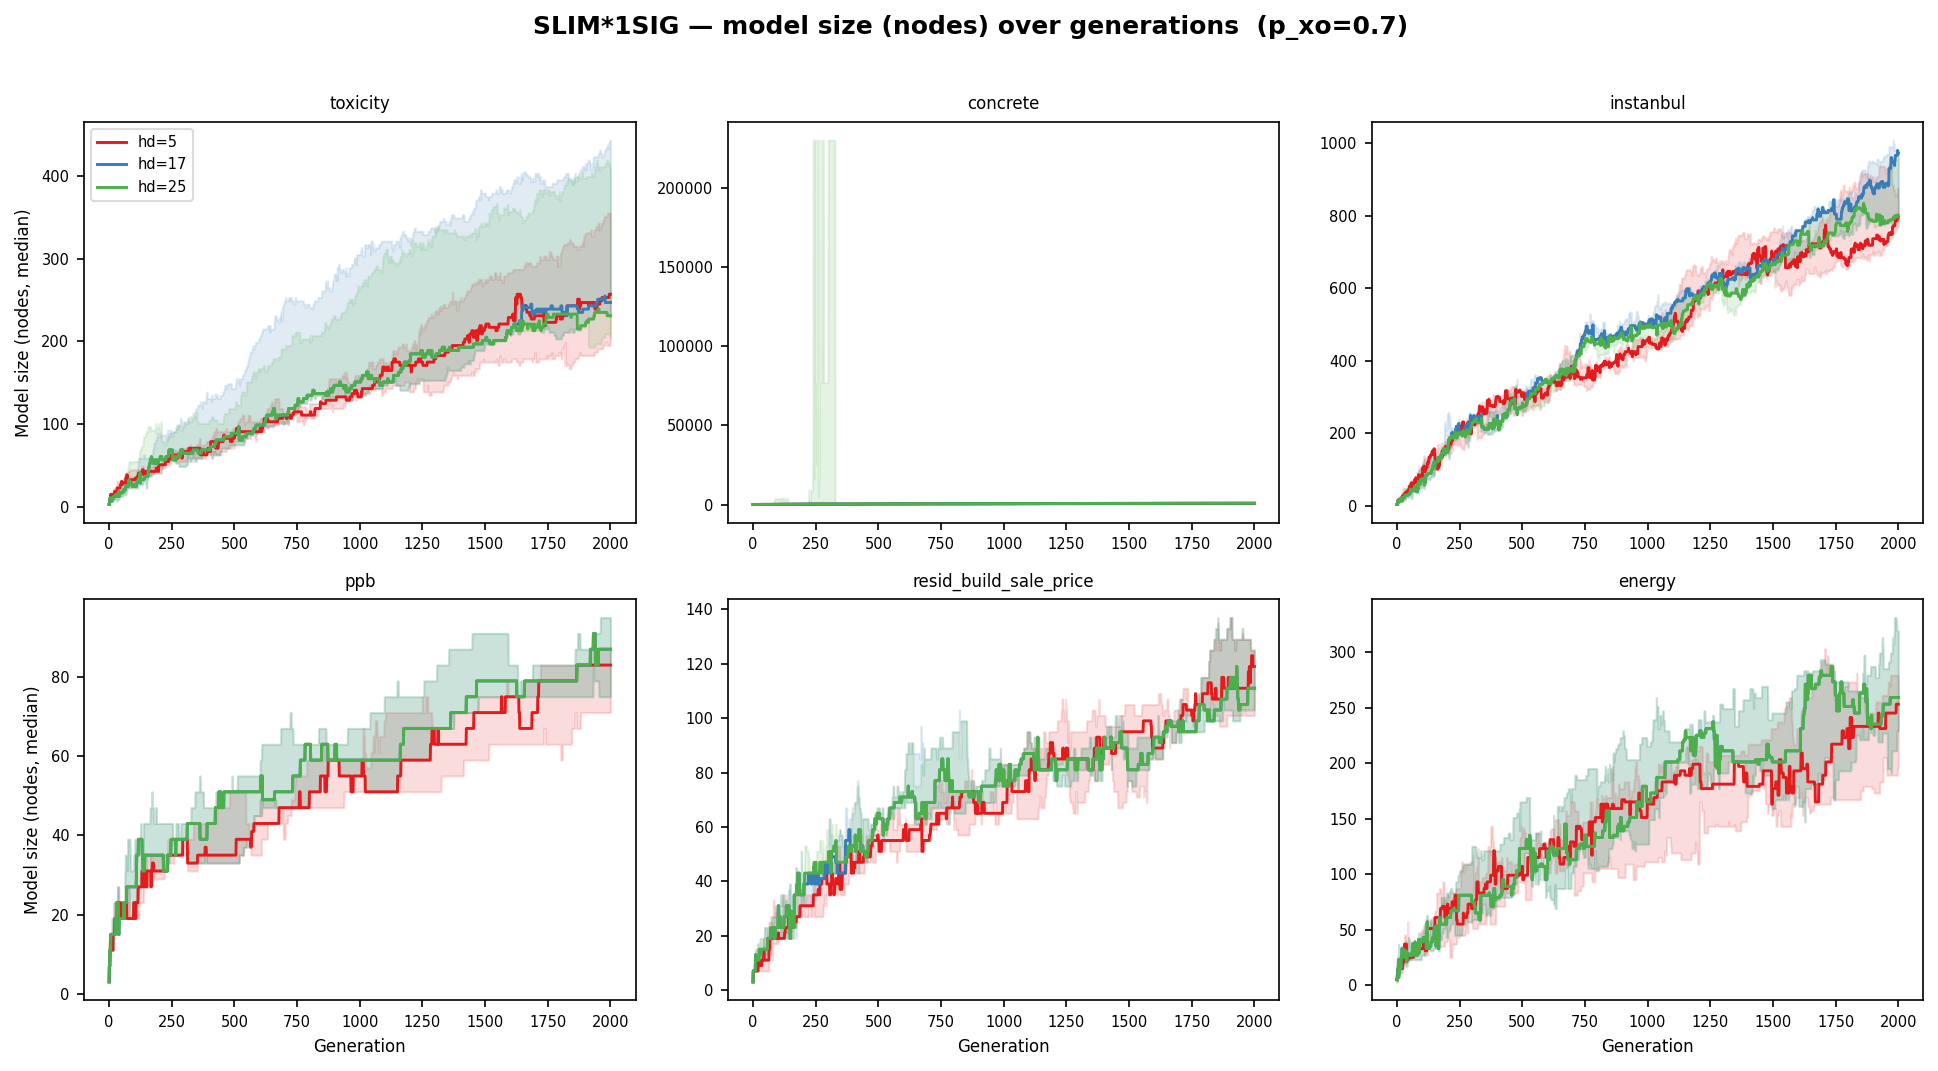
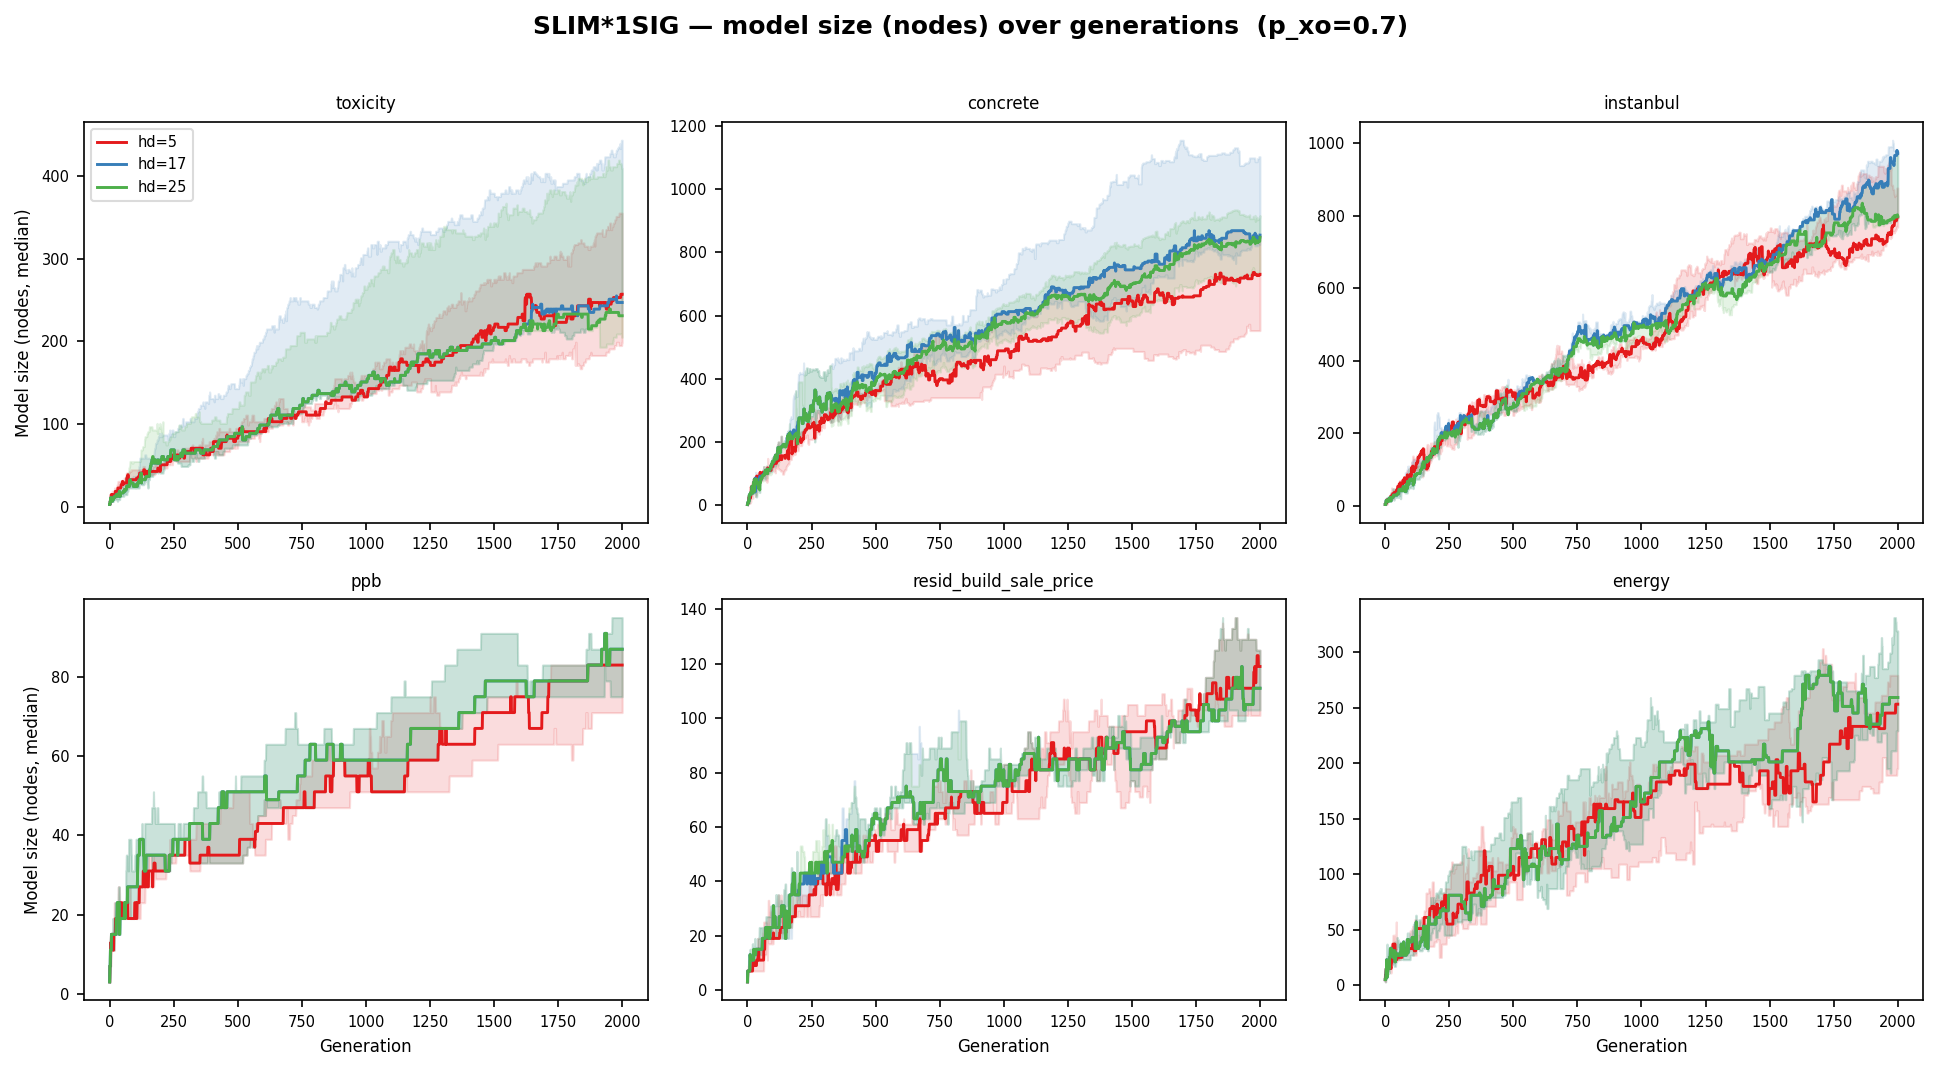
Add p_xo sweep and hd=10 to depth-cap analysis
Extend the depth-cap experiments and plotting to sweep p_xo (0.3, 0.7) and include hd=10. Changes: update CSV input name; parse and filter p_xo and numeric hd in generate_depth_cap_plots.py; add color/line-style/labels for hd and p_xo; plot one curve per (hd,p_xo) and adjust legends/titles; include p_xo in summary table generation and pooled summaries. main_depth_cap.py: iterate over p_xo_values, include p_xo in task tuple and run_one signature, adjust algo naming and settings metadata. Also updated generated artifacts (summary .tex and size plot image) to reflect new sweep results.

diff --git a/main/analysis/generate_depth_cap_plots.py b/main/analysis/generate_depth_cap_plots.py
@@ -34,7 +34,7 @@ _LOG  = os.path.join(_HERE, "..", "log")
 _OUT  = os.path.join(_LOG, "latex", "depth_cap")
 os.makedirs(_OUT, exist_ok=True)
 
-LOG_CSV = os.path.join(_LOG, "results_depth_cap_2.csv")
+LOG_CSV = os.path.join(_LOG, "results_depth_cap_new.csv")
 
 # ── CONFIG ─────────────────────────────────────────────────────────────────────
 
@@ -44,10 +44,14 @@ _COLS = {0:"algo",1:"run_id",2:"dataset",3:"seed",4:"gen",
 DATASETS  = ["toxicity", "concrete", "instanbul", "ppb",
              "resid_build_sale_price", "energy"]
 VARIANTS  = ["SLIM+2SIG", "SLIM*ABS", "SLIM*1SIG"]
-HD_KEEP   = [5, 17, 25]           # exclude 50 and None
+HD_KEEP   = [5, 10, 17]
+PXO_KEEP  = [0.3, 0.7]
 
-HD_COLORS = {5: "#e41a1c", 17: "#377eb8", 25: "#4daf4a"}
-HD_LABELS = {5: "hd=5", 17: "hd=17", 25: "hd=25"}
+# Colors per hd value; line style distinguishes p_xo
+HD_COLORS  = {5: "#e41a1c", 10: "#ff7f00", 17: "#377eb8"}
+HD_LABELS  = {5: "hd=5",    10: "hd=10",   17: "hd=17"}
+PXO_STYLES = {0.3: "--", 0.7: "-"}
+PXO_LABELS = {0.3: "p_xo=0.3", 0.7: "p_xo=0.7"}
 
 # ── DATA LOAD ─────────────────────────────────────────────────────────────────
 
@@ -55,19 +59,18 @@ def load_data():
     df = pd.read_csv(LOG_CSV, header=None).rename(columns=_COLS)
     df["seed"] = df["seed"].astype(int)
     df["variant"] = df["algo"].str.extract(r"^(SLIM[+*]\w+)_pxo")
-    df["hd_str"]  = df["algo"].str.extract(r"_hd(\w+)$")
-    df["hd"] = pd.to_numeric(df["hd_str"], errors="coerce")
-    # keep only the hd values we want
-    df = df[df["hd"].isin(HD_KEEP)].copy()
-    df["hd"] = df["hd"].astype(int)
+    df["p_xo"]    = pd.to_numeric(df["algo"].str.extract(r"_pxo([0-9.]+)_")[0],
+                                   errors="coerce")
+    df["hd"]      = pd.to_numeric(df["algo"].str.extract(r"_hd(\d+)$")[0],
+                                   errors="coerce")
 
-    # For groups with multiple batches keep only the latest run.
-    # UUID1 encodes a timestamp; highest .time value = most recent batch.
+    df = df[df["hd"].isin(HD_KEEP) & df["p_xo"].isin(PXO_KEEP)].copy()
+    df["hd"]  = df["hd"].astype(int)
+
+    # For groups with multiple batches keep only the latest run (UUID1 timestamp).
     df["_uuid_time"] = df["run_id"].map(lambda r: UUID(r).time)
     latest = (df.groupby(["algo", "dataset", "seed"])["_uuid_time"]
-                .max()
-                .reset_index()
-                .rename(columns={"_uuid_time": "_latest"}))
+                .max().reset_index().rename(columns={"_uuid_time": "_latest"}))
     df = df.merge(latest, on=["algo", "dataset", "seed"])
     df = df[df["_uuid_time"] == df["_latest"]].drop(columns=["_uuid_time", "_latest"])
 
@@ -89,20 +92,23 @@ def _median_iqr(sub, metric):
 
 def plot_convergence(df, variant, metric="test", ax=None, dataset=None):
     """
-    Plot median (+IQR band) convergence curves for hd=5/17/25 on *ax*.
-    *metric* is 'train' or 'test'.
+    One curve per (hd, p_xo) combo: colour = hd, linestyle = p_xo.
+    Legend drawn on the first panel only.
     """
     sub = df[(df["variant"] == variant) & (df["dataset"] == dataset)]
     for hd in HD_KEEP:
-        s = sub[sub["hd"] == hd]
-        if s.empty:
-            continue
-        agg = _median_iqr(s, metric)
-        c = HD_COLORS[hd]
-        ax.plot(agg["gen"], agg["med"], color=c, linewidth=1.4,
-                label=HD_LABELS[hd])
-        ax.fill_between(agg["gen"], agg["q25"], agg["q75"],
-                        color=c, alpha=0.15)
+        for p_xo in PXO_KEEP:
+            s = sub[(sub["hd"] == hd) & (sub["p_xo"] == p_xo)]
+            if s.empty:
+                continue
+            agg = _median_iqr(s, metric)
+            c  = HD_COLORS[hd]
+            ls = PXO_STYLES[p_xo]
+            ax.plot(agg["gen"], agg["med"], color=c, linestyle=ls,
+                    linewidth=1.4,
+                    label=f"{HD_LABELS[hd]}, {PXO_LABELS[p_xo]}")
+            ax.fill_between(agg["gen"], agg["q25"], agg["q75"],
+                            color=c, alpha=0.10)
     ax.set_title(dataset, fontsize=8)
     ax.tick_params(labelsize=7)
 
@@ -111,16 +117,15 @@ def make_convergence_figures(df):
     for variant in VARIANTS:
         safe_v = re.sub(r'[^A-Za-z0-9_\-]', '_', variant)
         fig, axes = plt.subplots(2, 3, figsize=(13, 7), squeeze=False)
-        fig.suptitle(f"{variant} — test RMSE convergence  (p_xo=0.7)",
+        fig.suptitle(f"{variant} — test RMSE convergence  (colour=hd, style=p_xo)",
                      fontsize=12, fontweight="bold", y=1.01)
 
         for idx, dataset in enumerate(DATASETS):
             ax = axes[idx // 3][idx % 3]
             plot_convergence(df, variant, metric="test", ax=ax, dataset=dataset)
             if idx == 0:
-                ax.legend(fontsize=7, framealpha=0.7)
+                ax.legend(fontsize=6, framealpha=0.7, ncol=2)
 
-        # shared y-label
         for row in axes:
             row[0].set_ylabel("Test RMSE (median)", fontsize=8)
         for ax in axes[1]:
@@ -145,26 +150,29 @@ def make_size_figures(df):
     for variant in VARIANTS:
         safe_v = re.sub(r'[^A-Za-z0-9_\-]', '_', variant)
         fig, axes = plt.subplots(2, 3, figsize=(13, 7), squeeze=False)
-        fig.suptitle(f"{variant} — model size (nodes) over generations  (p_xo=0.7)",
+        fig.suptitle(f"{variant} — model size (nodes)  (colour=hd, style=p_xo)",
                      fontsize=12, fontweight="bold", y=1.01)
 
         for idx, dataset in enumerate(DATASETS):
             ax = axes[idx // 3][idx % 3]
             sub = df[(df["variant"] == variant) & (df["dataset"] == dataset)]
             for hd in HD_KEEP:
-                s = sub[sub["hd"] == hd]
-                if s.empty:
-                    continue
-                agg = _median_iqr(s, "nodes_count")
-                c = HD_COLORS[hd]
-                ax.plot(agg["gen"], agg["med"], color=c, linewidth=1.4,
-                        label=HD_LABELS[hd])
-                ax.fill_between(agg["gen"], agg["q25"], agg["q75"],
-                                color=c, alpha=0.15)
+                for p_xo in PXO_KEEP:
+                    s = sub[(sub["hd"] == hd) & (sub["p_xo"] == p_xo)]
+                    if s.empty:
+                        continue
+                    agg = _median_iqr(s, "nodes_count")
+                    c  = HD_COLORS[hd]
+                    ls = PXO_STYLES[p_xo]
+                    ax.plot(agg["gen"], agg["med"], color=c, linestyle=ls,
+                            linewidth=1.4,
+                            label=f"{HD_LABELS[hd]}, {PXO_LABELS[p_xo]}")
+                    ax.fill_between(agg["gen"], agg["q25"], agg["q75"],
+                                    color=c, alpha=0.10)
             ax.set_title(dataset, fontsize=8)
             ax.tick_params(labelsize=7)
             if idx == 0:
-                ax.legend(fontsize=7, framealpha=0.7)
+                ax.legend(fontsize=6, framealpha=0.7, ncol=2)
 
         for row in axes:
             row[0].set_ylabel("Model size (nodes, median)", fontsize=8)
@@ -194,7 +202,7 @@ def make_summary_table(df):
     df_last = df.merge(last, on=["algo","dataset","seed"])
     df_last  = df_last[df_last["gen"] == df_last["last_gen"]]
 
-    agg = (df_last.groupby(["variant","hd","dataset"])
+    agg = (df_last.groupby(["variant","p_xo","hd","dataset"])
                   .agg(
                       train_med  =("train",       "median"),
                       train_iqr  =("train",       iqr),
@@ -216,41 +224,39 @@ def make_summary_table(df):
     print(f"  Saved: depth_cap_summary_table.csv")
 
     # LaTeX
-    col_spec = "lllrrrrrr"
+    col_spec = "llllrrrrrr"
     lines = [
         r"\begin{longtable}{" + col_spec + "}",
-        r"\caption{Depth-cap sweep (p\_xo=0.7): median (IQR) at final generation}"
+        r"\caption{Depth-cap sweep: median (IQR) at final generation}"
         r" \label{tab:depth_cap} \\",
         r"\toprule",
-        r"Variant & Dataset & max\_hd & "
+        r"Variant & Dataset & p\_xo & max\_hd & "
         r"\multicolumn{2}{c}{Train RMSE} & "
         r"\multicolumn{2}{c}{Test RMSE} & "
         r"\multicolumn{2}{c}{Model Size} \\",
-        r"\cmidrule(lr){4-5}\cmidrule(lr){6-7}\cmidrule(lr){8-9}",
-        r" & & & Med & IQR & Med & IQR & Med & IQR \\",
+        r"\cmidrule(lr){5-6}\cmidrule(lr){7-8}\cmidrule(lr){9-10}",
+        r" & & & & Med & IQR & Med & IQR & Med & IQR \\",
         r"\midrule",
         r"\endfirsthead",
         r"\toprule",
-        r"Variant & Dataset & max\_hd & "
+        r"Variant & Dataset & p\_xo & max\_hd & "
         r"\multicolumn{2}{c}{Train RMSE} & "
         r"\multicolumn{2}{c}{Test RMSE} & "
         r"\multicolumn{2}{c}{Model Size} \\",
-        r" & & & Med & IQR & Med & IQR & Med & IQR \\",
+        r" & & & & Med & IQR & Med & IQR & Med & IQR \\",
         r"\midrule",
         r"\endhead",
         r"\bottomrule",
         r"\endfoot",
     ]
     prev_key = None
-    for _, r in agg.sort_values(["variant","dataset","hd"]).iterrows():
+    for _, r in agg.sort_values(["variant","dataset","p_xo","hd"]).iterrows():
         key = (r["variant"], r["dataset"])
         if prev_key is not None and key != prev_key:
             lines.append(r"\midrule")
         prev_key = key
-        v  = r["variant"] if key != prev_key else ""
-        ds = r["dataset"]
         lines.append(
-            f"{r['variant']} & {r['dataset']} & {r['hd']} & "
+            f"{r['variant']} & {r['dataset']} & {r['p_xo']} & {r['hd']} & "
             f"{r['train_med']:.3f} & {r['train_iqr']:.3f} & "
             f"{r['test_med']:.3f} & {r['test_iqr']:.3f} & "
             f"{r['size_med']:.0f} & {r['size_iqr']:.0f} \\\\"
@@ -290,6 +296,6 @@ if __name__ == "__main__":
     df_last = df.merge(last, on=["algo","dataset","seed"])
     df_last  = df_last[df_last["gen"] == df_last["last_gen"]]
     print("\nPooled median test RMSE at gen 2000 (across all datasets & variants):")
-    print(df_last.groupby("hd")["test"].median().to_string())
+    print(df_last.groupby(["p_xo","hd"])["test"].median().unstack("hd").to_string())
     print("\nPooled median model size at gen 2000:")
-    print(df_last.groupby("hd")["nodes_count"].median().to_string())
+    print(df_last.groupby(["p_xo","hd"])["nodes_count"].median().unstack("hd").to_string())

diff --git a/main/main_depth_cap.py b/main/main_depth_cap.py
@@ -36,9 +36,8 @@ _algo_names = {
     (True,  False, "mul", False): "SLIM*1SIG",
 }
 
-# p_xo=0.7 fixed; sweep depth cap. hd=17 already exists in results_prob_xo_12052026.csv.
-p_xo           = [0.3, 0.7]
-max_head_depth_values = [5, 10, 17]   # None = uncapped
+p_xo_values           = [0.3, 0.7]
+max_head_depth_values = [5, 10, 17]
 
 _dataset_params = {
     "toxicity": {"p_inflate": 0.1, "ms_lo": 0.0, "ms_hi": 0.1},
@@ -72,7 +71,7 @@ def load_completed_runs(log_path, n_iter):
 ########################################################################################################################
 
 def run_one(task):
-    (loader, sig, ttrees, op, max_head_depth, seed,
+    (loader, sig, ttrees, op, p_xo, max_head_depth, seed,
      algo, unique_run_id, log_path, p_inflate, ms_lo, ms_hi, project_root) = task
 
     if project_root not in sys.path:
@@ -185,19 +184,20 @@ if __name__ == '__main__':
         dp = _dataset_params.get(loader, _dataset_params["other"])
         for (sig, ttrees, op, gsgp) in variants:
             algo_base = _algo_names[(sig, ttrees, op, gsgp)]
-            for max_head_depth in max_head_depth_values:
-                hd_tag = "None" if max_head_depth is None else str(max_head_depth)
-                algo = f'{algo_base}_pxo{p_xo}_hd{hd_tag}'
-                for seed in range(n_runs):
-                    if (algo, loader, seed) in completed:
-                        print(f"  skip [{loader}] {algo} seed={seed}")
-                        continue
-                    tasks.append((
-                        loader, sig, ttrees, op, max_head_depth, seed,
-                        algo, unique_run_id, _LOG_PATH,
-                        dp["p_inflate"], dp["ms_lo"], dp["ms_hi"],
-                        _PROJECT_ROOT,
-                    ))
+            for p_xo in p_xo_values:
+                for max_head_depth in max_head_depth_values:
+                    hd_tag = str(max_head_depth)
+                    algo = f'{algo_base}_pxo{p_xo}_hd{hd_tag}'
+                    for seed in range(n_runs):
+                        if (algo, loader, seed) in completed:
+                            print(f"  skip [{loader}] {algo} seed={seed}")
+                            continue
+                        tasks.append((
+                            loader, sig, ttrees, op, p_xo, max_head_depth, seed,
+                            algo, unique_run_id, _LOG_PATH,
+                            dp["p_inflate"], dp["ms_lo"], dp["ms_hi"],
+                            _PROJECT_ROOT,
+                        ))
 
     print(f"Submitting {len(tasks)} tasks on {N_JOBS} workers...")
     wall0 = time.time()
@@ -209,7 +209,7 @@ if __name__ == '__main__':
             try:
                 print(f"[{i}/{len(tasks)}] {fut.result()}")
             except Exception as exc:
-                print(f"[{i}/{len(tasks)}] FAILED [{t[0]}] {t[6]} seed={t[5]}: {exc}")
+                print(f"[{i}/{len(tasks)}] FAILED [{t[0]}] {t[7]} seed={t[6]}: {exc}")
 
     print(f"\nAll runs complete -- {time.time() - wall0:.1f}s total")
 
@@ -218,7 +218,8 @@ if __name__ == '__main__':
         settings_dict=[
             {"n_runs": n_runs, "n_iter": 2000, "log": 1},
             {"pop_size": 100, "init_depth": 6, "elitism": True},
-            {"p_xo": p_xo, "max_head_depth_values": str(max_head_depth_values),
+            {"p_xo_values": str(p_xo_values),
+             "max_head_depth_values": str(max_head_depth_values),
              "head_xo_freq": None,
              "variants": str([_algo_names[v] for v in variants])},
             {"data_loaders": str(data_loaders), "TERMINALS": "N/A"},

diff --git a/main/log/latex/depth_cap/depth_cap_summary_table.tex b/main/log/latex/depth_cap/depth_cap_summary_table.tex
@@ -15,7 +15,7 @@ Variant & Dataset & max\_hd & \multicolumn{2}{c}{Train RMSE} & \multicolumn{2}{c
 \endfoot
 SLIM*1SIG & concrete & 5 & 9.052 & 13.234 & 9.782 & 11.453 & 731 & 302 \\
 SLIM*1SIG & concrete & 17 & 10.692 & 13.551 & 11.569 & 12.516 & 855 & 262 \\
-SLIM*1SIG & concrete & 25 & 10.692 & 11.717 & 11.569 & 10.340 & 855 & 262 \\
+SLIM*1SIG & concrete & 25 & 10.692 & 11.386 & 11.569 & 10.101 & 855 & 262 \\
 \midrule
 SLIM*1SIG & energy & 5 & 2.799 & 0.054 & 3.167 & 0.132 & 253 & 84 \\
 SLIM*1SIG & energy & 17 & 2.672 & 0.266 & 2.903 & 0.308 & 259 & 90 \\
@@ -62,8 +62,8 @@ SLIM*ABS & toxicity & 17 & 1934.040 & 132.041 & 2036.889 & 260.068 & 860 & 285 \
 SLIM*ABS & toxicity & 25 & 1934.040 & 113.284 & 2073.168 & 260.068 & 860 & 271 \\
 \midrule
 SLIM+2SIG & concrete & 5 & 12.035 & 1.881 & 12.409 & 2.070 & 11297 & 242 \\
-SLIM+2SIG & concrete & 17 & 15.487 & 8.161 & 15.577 & 4.361 & 11297 & 453 \\
-SLIM+2SIG & concrete & 25 & 16.547 & 5.571 & 16.535 & 1.460 & 11297 & 824 \\
+SLIM+2SIG & concrete & 17 & 15.487 & 5.940 & 15.577 & 1.902 & 11297 & 453 \\
+SLIM+2SIG & concrete & 25 & 16.722 & 5.571 & 16.717 & 1.460 & 11297 & 824 \\
 \midrule
 SLIM+2SIG & energy & 5 & 2.725 & 0.418 & 3.062 & 0.244 & 2914 & 410 \\
 SLIM+2SIG & energy & 17 & 2.657 & 0.143 & 2.940 & 0.182 & 2185 & 840 \\
